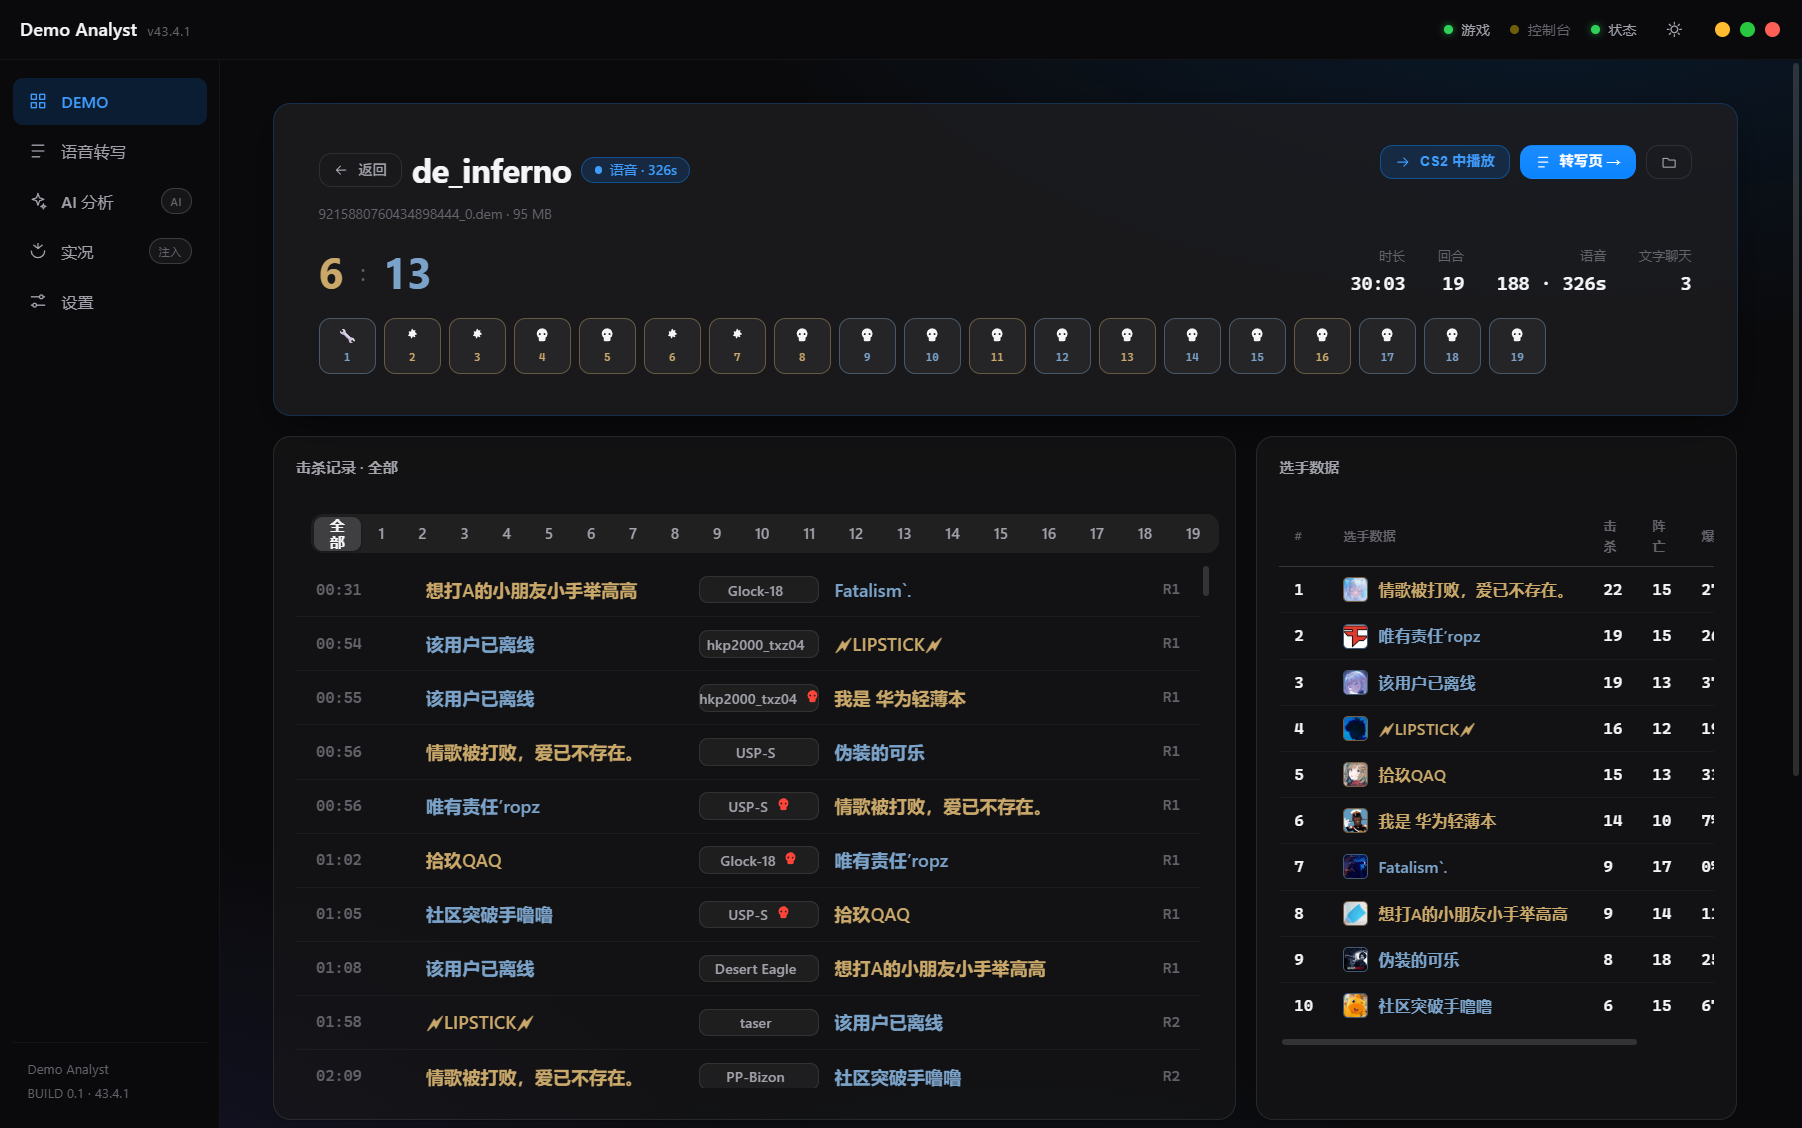
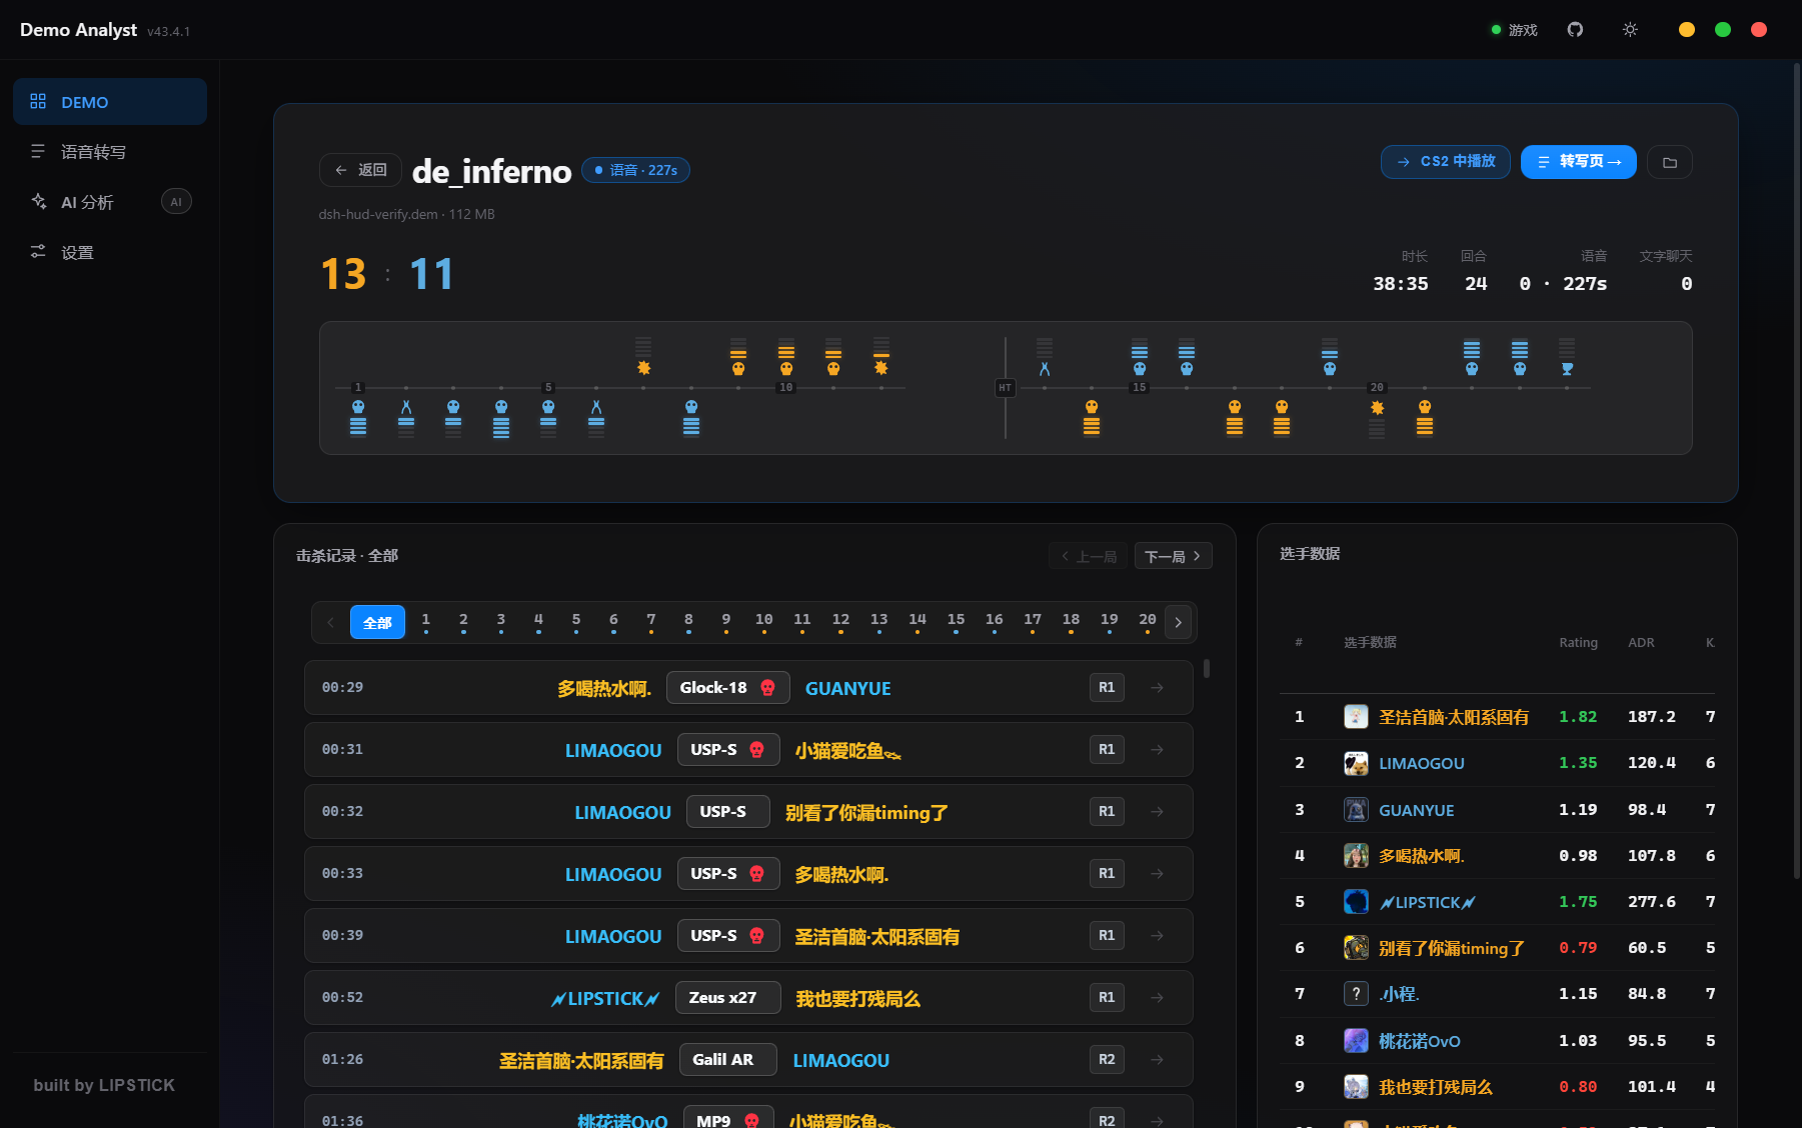
docs: overhaul README with new slogan, prominent screenshots, and rearranged structure

diff --git a/README.en.md b/README.en.md
@@ -4,8 +4,8 @@
 
 # CS2 Demo Analyst
 
-**Esports-Grade CS2 Replay & Voice Analysis Workstation**  
-*In-game Voice Transcription · Panorama Voice HUD · 4s Lead-In Live Jump · Official Dual-Track Round Timeline · Built-In AI Match Post-Mortem*
+**Esports-Grade CS2 Replay Analysis Workstation**  
+*Voice Transcription · Panorama Voice HUD · Lead-In Live Jump · Official Dual-Track Round Timeline · AI Match Post-Mortem*
 
 [![Platform](https://img.shields.io/badge/platform-Windows%2010%2B-blue?logo=windows)](https://github.com/B-LIPSTICK/cs2-demo-analyst/releases)
 [![Version](https://img.shields.io/badge/version-v1.0.0-007aff)](https://github.com/B-LIPSTICK/cs2-demo-analyst/releases/tag/v1.0.0)
@@ -24,11 +24,51 @@
 ## Why CS2 Demo Analyst?
 
 Reviewing demos is the most critical pathway to improving in CS2, yet competitive players, coaches, and content creators have long been hindered by:
-- **Clunky In-Game Controls**: CS2's default `Shift+F2` demo UI is notoriously laggy, difficult to scrub, and often misses the precise action moments;
+- **Clunky In-Game Controls**: CS2's default `Shift+F2` demo UI is notoriously laggy, difficult to scrub, and often misses critical engagement moments;
 - **Silent Voice Recordings**: Standard platforms rarely replay team comms, making it impossible to audit calls, tactical executions, and miscommunications;
 - **Boring Stat Tables**: Cold numerical charts fail to illustrate match momentum, clutch decisions, and turning points.
 
 **CS2 Demo Analyst** bridges this gap: a high-performance Windows desktop application that connects directly to the running CS2 process, transforming static `.dem` replay files into **searchable, voice-transcribed, AI-diagnosed tactical intelligence with interactive live playback**.
+
+---
+
+## Quick Start
+
+### Download & Run
+
+Grab the latest release from the [Releases Page](https://github.com/B-LIPSTICK/cs2-demo-analyst/releases):
+
+- **Portable Green Build (Recommended)**:
+  Download `CS2-Demo-Analyst-1.0.0-win64-portable.zip`, extract to any directory, and double-click `CS2 Demo Analyst.exe` to start immediately. No installation required.
+
+### Basic Workflow
+
+1. **Add Demo Directories**: Launch the app and click "Add Folder" or "Auto-Detect Platform Dirs" to discover your Wanmei, 5E, or Steam replay directories;
+2. **Instant Demo Parsing**: Parsed scores, kill feeds, and timelines are cached locally. Click any card to enter the deep-dive detail view;
+3. **Live Seek with Pre-Roll**: Click any kill row or timeline icon to jump directly inside CS2 with an automatic 4-second pre-fire buffer;
+4. **Voice Comms & AI Post-Mortem**:
+   - Transcribe team voice comms using offline local Whisper, filterable by player and round;
+   - Run AI tactical diagnostics with one click and jump to referenced rounds and timestamps instantly in-game.
+
+---
+
+## Interface Showcase & Previews
+
+### 1. Official Dual-Track Round Timeline & Match Workspace
+![Demo Detail & Timeline](docs/screenshots/1.0-detail.png)
+*Pixel-perfect recreation of the official CS:GO / CS2 dual-track timeline (survivor bars, 5 victory icons, half-time side swapping), linked to an interactive kill feed and comprehensive player statistics (Rating, ADR, KAST, Opening Duels).*
+
+### 2. Demo Library & Smart Multi-Platform Management
+![Demo Library](docs/screenshots/1.0-library.png)
+*Auto-discovery for Wanmei, 5E, and Steam demo folders with high-speed local parsing, date/map/favorite filtering, and batch operations.*
+
+### 3. In-Game Voice Transcription & Instant Jump
+![Voice Transcription](docs/screenshots/1.0-transcript.png)
+*Offline local Whisper transcription of team communications. Filter by side, player, or round, and click any line of dialogue to jump immediately to the live replay.*
+
+### 4. AI Match Post-Mortem & Tactical Diagnostics
+![AI Match Post-Mortem](docs/screenshots/1.0-ai.png)
+*Correlates entire-match kill events with player comms. Ask free or private AI models for round-by-round breakdown and click output timestamps to scrub in-game.*
 
 ---
 
@@ -40,8 +80,6 @@ Reviewing demos is the most critical pathway to improving in CS2, yet competitiv
   - Dynamic **5-bar Survivor Indicator** to distinguish between 1vX clutch miracles and flawless 5-man retakes;
   - 5 official victory vector icons: Elimination, Bomb Exploded, Bomb Defused, Timeout, and Matchpoint Trophy;
   - Click any round or icon to filter the kill feed and highlight key duels.
-
-![Match Timeline](docs/screenshots/timeline.png)
 
 ### 2. 4-Second Lead-In Live Seek (Live Jump with Lead-In)
 - **Firefight Pre-Roll Buffer**: Clicking any kill row, tactical event, or AI timestamp automatically seeks ~256 ticks (4 seconds) prior to the engagement, providing full context on crosshair placement, utility prep, and trades;
@@ -75,34 +113,6 @@ Reviewing demos is the most critical pathway to improving in CS2, yet competitiv
 - **Auto-Discovery**: One-click detection for Steam, Wanmei (PW), and 5E platform demo storage folders;
 - **Weapon Normalization**: Automatically strips platform skin suffixes and perk tags (e.g. `hkp2000_txz04` → `P2000`), fully supporting Zeus, CZ75, and knife models;
 - **Match Date Extraction**: Reads real match timestamps from zip entry headers and file conventions, eliminating download mtime inaccuracies.
-
----
-
-## Screenshots
-
-| Library | Demo Detail | Transcript |
-| :---: | :---: | :---: |
-| ![Library](docs/screenshots/1.0-library.png) | ![Demo Detail](docs/screenshots/1.0-detail.png) | ![Transcript](docs/screenshots/1.0-transcript.png) |
-
----
-
-## Quick Start
-
-### Installation
-
-Download the latest build from [GitHub Releases](https://github.com/B-LIPSTICK/cs2-demo-analyst/releases):
-
-- **Portable Green Build (Recommended)**:
-  Download `CS2-Demo-Analyst-1.0.0-win64-portable.zip`, extract to any directory, and double-click `CS2 Demo Analyst.exe` to run immediately without installation.
-
-### Basic Workflow
-
-1. **Add Demo Folders**: Click "Auto-Detect Platform Dirs" to discover your Wanmei, 5E, or Steam replay folders;
-2. **Parse Demos**: Parsed stats, scores, and timelines are cached locally for fast retrieval;
-3. **Live Seek**: Click any round or kill to seek directly inside CS2 with a 4-second buffer;
-4. **Voice & AI Review**:
-   - Transcribe voice comms using local Whisper or cloud engines;
-   - Ask AI assistants for high-impact turning points and click timestamps to inspect.
 
 ---
 
@@ -144,3 +154,4 @@ npm run dist:zip
 ## License
 
 Distributed under the [MIT License](LICENSE).
+

diff --git a/README.md b/README.md
@@ -4,8 +4,8 @@
 
 # CS2 Demo Analyst
 
-**挂接 CS2 播放进程的电竞级录像分析工具**  
-*语音转写 · 游戏内麦克风 HUD 悬浮 · 4 秒提前量极速直跳 · 官方双轨回合走势图 · 国内免梯 AI 智能复盘*
+**CS2电竞级录像分析工具**  
+*语音转写 · 游戏内语音显示 · 精准直跳 · 官方双轨回合走势图 · AI 智能复盘*
 
 [![Platform](https://img.shields.io/badge/platform-Windows%2010%2B-blue?logo=windows)](https://github.com/B-LIPSTICK/cs2-demo-analyst/releases)
 [![Version](https://img.shields.io/badge/version-v1.0.0-007aff)](https://github.com/B-LIPSTICK/cs2-demo-analyst/releases/tag/v1.0.0)
@@ -24,11 +24,51 @@
 ## 为什么选择 CS2 Demo Analyst？
 
 复盘是提升 CS2 竞技水平与战术意识最核心的途径，但长期以来玩家深受以下痛点困扰：
-- **游戏内录像播放体验粗糙**：CS2 原生 `Shift+F2` 控制台拖动卡顿、定位不准，错过击杀瞬间；
+- **游戏内录像播放体验粗糙**：CS2 原生 `Shift+F2` 控制台拖动卡顿、定位不准，错过关键击杀瞬间；
 - **队内原声语音无法复盘**：对战平台录像听不到队友开麦交流，无法复盘关键局的信息报点、战术执行与沟通失误；
 - **传统表格单调枯燥**：冰冷的数据统计无法直观呈现比赛转折点与残局博弈。
 
 **CS2 Demo Analyst** 为硬核玩家、战队指挥与自媒体创作者量身打造 —— 深度挂接 CS2 底层回放进程，将普通的 `.dem` 录像文件升华为**全语音可检索、全场景秒级直跳、带原生走势图与 AI 战术诊断的私有化复盘工作站**。
+
+---
+
+## 快速开始
+
+### 下载与运行
+
+前往 [Releases 页面](https://github.com/B-LIPSTICK/cs2-demo-analyst/releases) 获取最新发布包：
+
+- **绿色便携版（推荐）**：
+  下载 `CS2-Demo-Analyst-1.0.0-win64-portable.zip`，解压至任意无特殊符号的英文文件夹，双击 `CS2 Demo Analyst.exe` 即可使用，无需安装、开箱即用。
+
+### 基础使用流程
+
+1. **添加录像目录**：首次打开软件，点击顶部「添加目录」或「自动检测平台目录」，一键识别完美世界、5E 或 Steam 录像路径；
+2. **极速解析对局**：Demo 载入后自动提取比分、击杀流与走势图，点击卡片即可进入详情页深度复盘；
+3. **精准直跳现场**：在击杀流或走势图中点击任意时间戳，CS2 自动精准直跳至交火前 4 秒缓冲区；
+4. **原声转写与 AI 复盘**：
+   - 在转写页使用本地 Whisper 提取队内原声开麦交流，支持按选手、回合快速过滤；
+   - 在 AI 分析页一键生成赛后战术总结，点击回答中的回合与时间点秒级联动游戏。
+
+---
+
+## 界面效果与功能预览
+
+### 1. 官方双轨回合走势图与深度复盘工作台
+![Demo 详情页与走势图](docs/screenshots/1.0-detail.png)
+*像素级还原 CS:GO / CS2 官方双轨走势图（存活人数槽、5种终局标志、换边比分），联动可直跳击杀流与选手高阶战绩榜（Rating、ADR、KAST、首杀率）。*
+
+### 2. 录像资料库与多平台智能管理
+![录像资料库](docs/screenshots/1.0-library.png)
+*智能识别完美世界对战平台、5E 对战平台与 Steam 官方录像，本地极速扫描解析，支持按对局日期、地图与收藏状态筛选。*
+
+### 3. 游戏内原声语音转写与逐行直跳
+![语音转写](docs/screenshots/1.0-transcript.png)
+*本地 Whisper 离线转写队内开麦语音，支持按阵营、选手及回合筛选，点击任意台词秒级跳转回放对应画面。*
+
+### 4. AI 智能复盘与战术战况深度诊断
+![AI 智能复盘](docs/screenshots/1.0-ai.png)
+*深度关联全场击杀事件与语音交流，免翻墙直连大模型分析残局破防与战术决策，点击输出的时间戳秒级联动游戏。*
 
 ---
 
@@ -40,8 +80,6 @@
   - 动态计算获胜方 **5 格幸存人数槽（Survivor Bars）**，一眼识别 1vX 极限残局翻盘还是 0 伤亡完美歼灭；
   - 5 种官方矢量胜负图标：全歼（Elimination）、引爆（Exploded）、拆包（Defused）、超时（Timeout）与终局奖杯（Trophy）；
   - 任意回合点击联动击杀流与高光事件。
-
-![回合胜负走势图](docs/screenshots/timeline.png)
 
 ### 2. 4 秒交火提前量极速直跳 (Live Jump with Lead-In)
 - **交火缓冲保护**：在击杀流、战术事件或 AI 复盘中点击任意时间戳，自动提前约 256 ticks（4秒），完整观摩架枪、道具预压与对枪全过程；
@@ -75,34 +113,6 @@
 - **自动探测平台目录**：一键智能识别并扫描 Steam 官方、完美世界对战平台、5E 对战平台等常用 Demo 存储路径；
 - **武器名称规范化**：自动清洗平台枪皮与特权标识（如 `hkp2000_txz04` → `P2000`），支持 Zeus、CZ75 及各类官方名刀；
 - **真实比赛时间提取**：自动从录像文件实体头与压缩元数据中解析对局真实时间，彻底告别被下载时间篡改。
-
----
-
-## 界面预览
-
-| 资料库 (Library) | Demo 详情页 (Detail) | 语音转写 (Transcript) |
-| :---: | :---: | :---: |
-| ![资料库](docs/screenshots/1.0-library.png) | ![Demo 详情](docs/screenshots/1.0-detail.png) | ![语音转写](docs/screenshots/1.0-transcript.png) |
-
----
-
-## 快速开始
-
-### 下载与运行
-
-前往 [Releases 页面](https://github.com/B-LIPSTICK/cs2-demo-analyst/releases) 获取最新发布包：
-
-- **绿色便携版（推荐）**：
-  下载 `CS2-Demo-Analyst-1.0.0-win64-portable.zip`，解压至任意无特殊符号的英文文件夹，双击 `CS2 Demo Analyst.exe` 即可使用，无需安装、开箱即用。
-
-### 基础使用步骤
-
-1. **添加目录**：首次打开软件，点击「自动检测平台目录」即可一键识别完美、5E 或 Steam 录像目录；
-2. **录像解析**：Demo 载入后自动提取比分、击杀流与走势图，点击卡片即可进入详情复盘；
-3. **极速跳转**：点击任意回合胜负图标或击杀流，即可在 CS2 游戏中直接跳到交火前 4 秒；
-4. **语音与 AI 复盘**：
-   - 在转写页使用本地 Whisper 或云端引擎提取队内原声交流；
-   - 在 AI 分析页选择模型（如免费的智谱 GLM-4），一键生成赛后战术总结，点击回答中的时间戳直接联动游戏。
 
 ---
 
@@ -146,3 +156,4 @@ npm run dist:zip
 ## 开源许可
 
 本项目基于 [MIT License](LICENSE) 许可协议开源。
+
